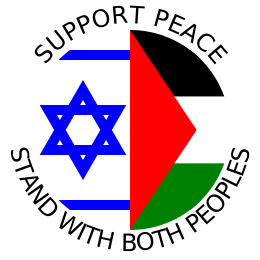
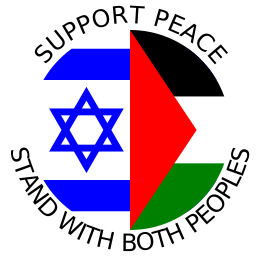
adjust israeli flag

diff --git a/src/badges/elements.py b/src/badges/elements.py
@@ -4,23 +4,24 @@ import numpy as np
 from .qr_to_self import get_qr_code_element
 
 def draw_israeli_flag(dwg, height, width, top, right):
-    line_width = height / 20
-    stripe_offset = height / 10
+    line_width = 5.5/160*height
+    stripe_offset = 15/160*height
+    strip_width = 25/160*height
 
     elements = []
 
     elements.append(dwg.rect(insert=(right - width, top), size=(width, height), fill='white'))
-    elements.append(dwg.rect(insert=(right - width, top + stripe_offset), size=(width, line_width), fill='blue'))
-    elements.append(dwg.rect(insert=(right - width, top + height - stripe_offset - line_width), size=(width, line_width), fill='blue'))
+    elements.append(dwg.rect(insert=(right - width, top + stripe_offset), size=(width, strip_width), fill='blue'))
+    elements.append(dwg.rect(insert=(right - width, top + height - stripe_offset - strip_width), size=(width, strip_width), fill='blue'))
 
-    star_top = 2.5 * stripe_offset + line_width
+    star_top = 45.5/160*height+line_width
     star_bottom = height - star_top
 
     star_height = star_bottom - star_top
     triang_height = star_height * 3 / 4
     triang_edge_length = triang_height / np.cos(np.radians(30))
 
-    x0 = right - width / 2
+    x0 = right - width / 2 + line_width / 2
     y0 = star_top
     x1 = x0 - triang_edge_length / 2
     y1 = y0 + triang_height
